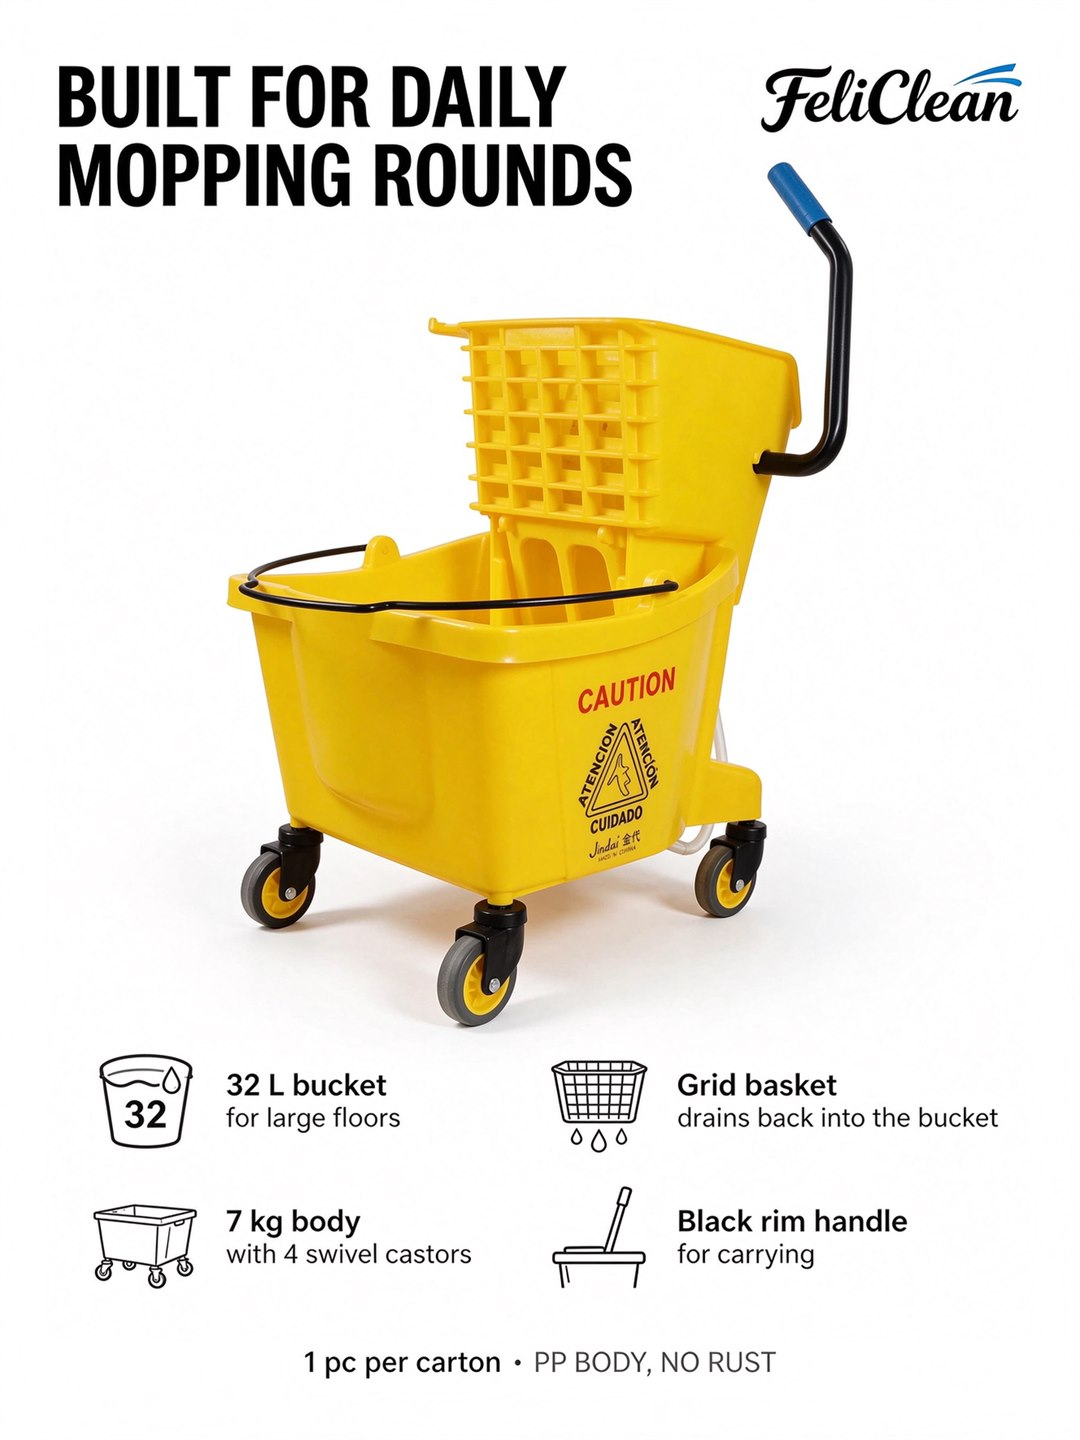
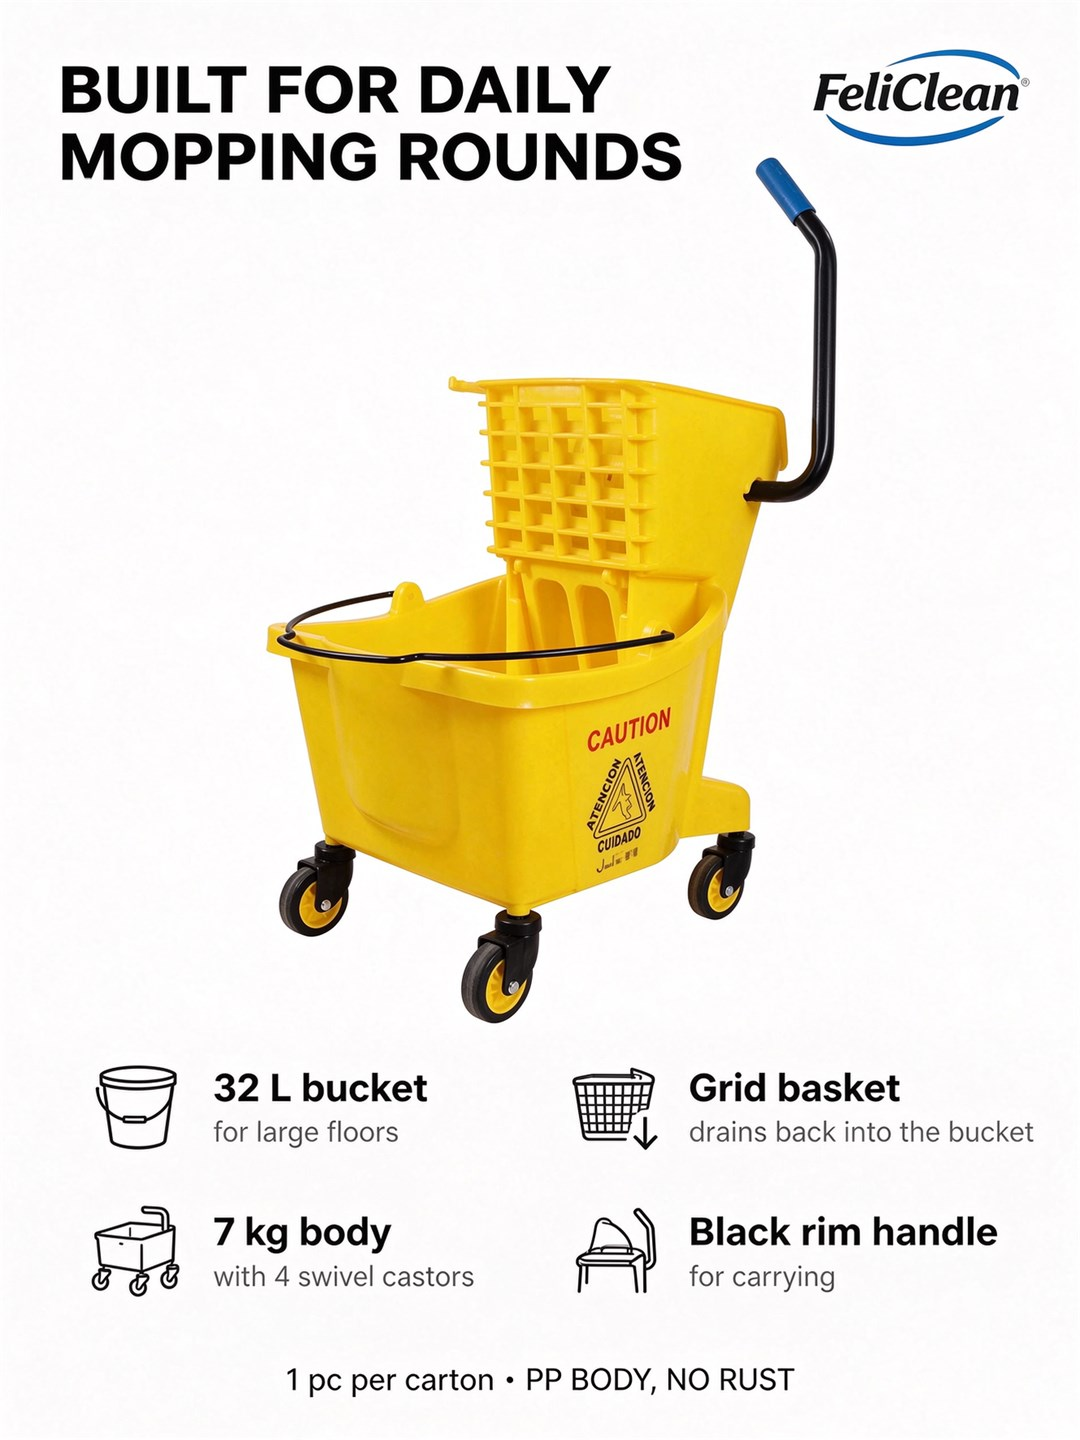
PWR-103A: correct model spec to the supplied photo - no drain hose; clean hose artefact from main image, regenerate all five posters, rewrite page copy, spec, features and JSON-LD

diff --git a/pwr-103a.html b/pwr-103a.html
@@ -4,19 +4,19 @@
 <head>
   <meta charset="utf-8">
   <meta content="width=device-width, initial-scale=1.0" name="viewport">
-  <title>32L Single Mop Wringer Trolley PWR-103A | Large-Capacity Mop Wringer Bucket with Drain Hose for Schools, Warehouses &amp; Hospitals | Feliclean</title>
-  <meta name="description" content="32L single mop wringer trolley PWR-103A with a drain hose for schools, hospitals, warehouses and large retail floors: a 32 litre bucket cuts refill trips, a PP grid wringer basket drains the wringings back into the fill, and the hose empties the bucket into a floor drain without lifting. 54 × 38 × 90 cm, 7 kg, carton 51.5 × 41.5 × 36 cm, 1 pc per carton, four colours, factory direct from Guangzhou.">
-  <meta name="keywords" content="32L single mop wringer trolley, large capacity mop wringer bucket, mop bucket with wringer and drain hose, commercial mop wringer trolley, janitorial mop bucket 32 litre, single bucket wringer trolley PWR-103A">
+  <title>32L Single Mop Wringer Trolley PWR-103A | Large Single-Bucket Mop Wringer with Clip-On Basket for Schools, Warehouses &amp; Hospitals | Feliclean</title>
+  <meta name="description" content="32L single mop wringer trolley PWR-103A for schools, hospitals, warehouses and large retail floors: one 32 litre bucket cuts refill trips, and the clip-on PP grid wringer basket squeezes the mop and drains the wringings back into the fill. 54 × 38 × 90 cm, 7 kg, carton 51.5 × 41.5 × 36 cm, 1 pc per carton, four colours, factory direct from Guangzhou.">
+  <meta name="keywords" content="32L single mop wringer trolley, large capacity mop wringer bucket, single bucket mop wringer trolley with clip-on basket, commercial mop wringer trolley, janitorial mop bucket 32 litre, PWR-103A">
   <link rel="canonical" href="https://feliclean.com/pwr-103a.html">
   <meta name="robots" content="index, follow">
 
   <meta property="og:type" content="product">
   <meta property="og:site_name" content="FeliClean">
-  <meta property="og:title" content="32L Single Mop Wringer Trolley PWR-103A | Large-Capacity Wringer Bucket with Drain Hose for Schools, Warehouses and Hospitals">
-  <meta property="og:description" content="One 32 L bucket, a PP grid wringer basket and a drain hose at the base: fewer refills on long floors, and the dirty water goes into the floor drain without lifting. 54 x 38 x 90 cm, 7 kg, 1 pc per carton, four colours.">
+  <meta property="og:title" content="32L Single Mop Wringer Trolley PWR-103A | Large Single-Bucket Mop Wringer with Clip-On Basket for Schools, Warehouses and Hospitals">
+  <meta property="og:description" content="One 32 L bucket and a clip-on PP grid wringer basket: fewer refills on long floors, and the wringings drain back into the fill instead of across the tiles. 54 x 38 x 90 cm, 7 kg, 1 pc per carton, four colours.">
   <meta property="og:url" content="https://feliclean.com/pwr-103a.html">
-  <meta property="og:image" content="https://feliclean.com/assets/img/products/pwr-103a/pwr-103a-32l-single-mop-wringer-trolley-with-drain-hose-white-background.jpg">
-  <meta property="og:image:alt" content="32L single mop wringer trolley PWR-103A with drain hose, PP wringer basket and four swivel castors, white background">
+  <meta property="og:image" content="https://feliclean.com/assets/img/products/pwr-103a/pwr-103a-32l-single-mop-wringer-trolley-white-background.jpg">
+  <meta property="og:image:alt" content="32L single mop wringer trolley PWR-103A with clip-on PP wringer basket and four swivel castors, white background">
   <meta name="twitter:card" content="summary_large_image">
 
   <link href="assets/img/favicon.png" rel="icon">
@@ -41,10 +41,10 @@
   "name": "32L Single Mop Wringer Trolley PWR-103A",
   "sku": "PWR-103A",
   "mpn": "PWR-103A",
-  "category": "Large capacity single bucket mop wringer trolley with drain hose for schools, hospitals, warehouses and large retail floors",
-  "description": "32 litre single mop wringer trolley (PWR-103A) with a PP grid wringer basket that drains the wringings back into the bucket, a drain hose with cap at the base for emptying without lifting, a carry handle on the rim and four swivel castors. Overall size 54 × 38 × 90 cm, net weight 7 kg, carton 51.5 × 41.5 × 36 cm, 1 pc per carton, available in yellow, green, blue and red.",
+  "category": "Large capacity single bucket mop wringer trolley with clip-on PP basket for schools, hospitals, warehouses and large retail floors",
+  "description": "32 litre single mop wringer trolley (PWR-103A) with a clip-on PP grid wringer basket that squeezes the mop and drains the wringings back into the bucket, a carry handle on the rim and four swivel castors. Overall size 54 × 38 × 90 cm, net weight 7 kg, carton 51.5 × 41.5 × 36 cm, 1 pc per carton, available in yellow, green, blue and red.",
   "image": [
-    "https://feliclean.com/assets/img/products/pwr-103a/pwr-103a-32l-single-mop-wringer-trolley-with-drain-hose-white-background.jpg",
+    "https://feliclean.com/assets/img/products/pwr-103a/pwr-103a-32l-single-mop-wringer-trolley-white-background.jpg",
     "https://feliclean.com/assets/img/products/pwr-103a/pwr-103a-poster-1-32l-single-mop-wringer-trolley.jpg",
     "https://feliclean.com/assets/img/products/pwr-103a/pwr-103a-poster-2-dimensions-and-carton.jpg"
   ],
@@ -85,8 +85,8 @@
     },
     {
       "@type": "PropertyValue",
-      "name": "Drain",
-      "value": "Drain hose with cap at the base"
+      "name": "Wringer attachment",
+      "value": "Clip-on PP basket hooked over the bucket rim"
     },
     {
       "@type": "PropertyValue",
@@ -184,15 +184,15 @@
           <div class="pdp-left">
           <div class="pdp-gallery">
             <div class="pdp-thumbs pdp-thumbs--many">
-              <button class="pdp-thumb active" data-full="assets/img/products/pwr-103a/pwr-103a-32l-single-mop-wringer-trolley-with-drain-hose-white-background.jpg" type="button"><img src="assets/img/products/pwr-103a/pwr-103a-32l-single-mop-wringer-trolley-with-drain-hose-white-background.jpg" alt="32L single mop wringer trolley PWR-103A with drain hose, PP wringer basket and four swivel castors for schools and hospitals, white background"></button>
-              <button class="pdp-thumb" data-full="assets/img/products/pwr-103a/pwr-103a-poster-1-32l-single-mop-wringer-trolley.jpg" type="button"><img src="assets/img/products/pwr-103a/pwr-103a-poster-1-32l-single-mop-wringer-trolley.jpg" alt="32L single mop wringer trolley PWR-103A poster with 32 L capacity and 54 x 38 x 90 cm size for large floor cleaning"></button>
+              <button class="pdp-thumb active" data-full="assets/img/products/pwr-103a/pwr-103a-32l-single-mop-wringer-trolley-white-background.jpg" type="button"><img src="assets/img/products/pwr-103a/pwr-103a-32l-single-mop-wringer-trolley-white-background.jpg" alt="32L single mop wringer trolley PWR-103A with clip-on PP wringer basket and four swivel castors for schools and hospitals, white background"></button>
+              <button class="pdp-thumb" data-full="assets/img/products/pwr-103a/pwr-103a-poster-1-32l-single-mop-wringer-trolley.jpg" type="button"><img src="assets/img/products/pwr-103a/pwr-103a-poster-1-32l-single-mop-wringer-trolley.jpg" alt="32L single mop wringer trolley PWR-103A poster with 32 L capacity, PP wringer basket and 4 swivel castors for large floor cleaning"></button>
               <button class="pdp-thumb" data-full="assets/img/products/pwr-103a/pwr-103a-poster-2-dimensions-and-carton.jpg" type="button"><img src="assets/img/products/pwr-103a/pwr-103a-poster-2-dimensions-and-carton.jpg" alt="PWR-103A mop wringer trolley dimensions poster showing 54 x 38 x 90 cm overall size, 7 kg net weight and 51.5 x 41.5 x 36 cm carton for freight quotes"></button>
-              <button class="pdp-thumb" data-full="assets/img/products/pwr-103a/pwr-103a-poster-3-drain-hose.jpg" type="button"><img src="assets/img/products/pwr-103a/pwr-103a-poster-3-drain-hose.jpg" alt="PWR-103A 32 litre mop wringer trolley poster showing the drain hose emptying dirty water into a floor drain without lifting, for hospitals and warehouses"></button>
+              <button class="pdp-thumb" data-full="assets/img/products/pwr-103a/pwr-103a-poster-3-clip-on-wringer-basket.jpg" type="button"><img src="assets/img/products/pwr-103a/pwr-103a-poster-3-clip-on-wringer-basket.jpg" alt="PWR-103A 32 litre mop wringer trolley poster showing the clip-on wringer basket hooked over the bucket rim with grid drainage, for schools and warehouses"></button>
               <button class="pdp-thumb" data-full="assets/img/products/pwr-103a/pwr-103a-poster-4-built-for-daily-mopping.jpg" type="button"><img src="assets/img/products/pwr-103a/pwr-103a-poster-4-built-for-daily-mopping.jpg" alt="PWR-103A mop wringer bucket poster with rust-free PP body, grid wringer basket, 7 kg frame and four swivel castors built for daily mopping rounds"></button>
               <button class="pdp-thumb" data-full="assets/img/products/pwr-103a/pwr-103a-poster-5-factory-direct-guangzhou.jpg" type="button"><img src="assets/img/products/pwr-103a/pwr-103a-poster-5-factory-direct-guangzhou.jpg" alt="PWR-103A mop wringer trolley factory direct poster from Guangzhou with four colours, sample orders, OEM logo and EXW FOB CIF terms"></button>
             </div>
             <div class="pdp-main pdp-main--cap" id="pdpMain">
-              <img src="assets/img/products/pwr-103a/pwr-103a-32l-single-mop-wringer-trolley-with-drain-hose-white-background.jpg" alt="FeliClean PWR-103A 32L single mop wringer trolley product main image, PP wringer basket and drain hose">
+              <img src="assets/img/products/pwr-103a/pwr-103a-32l-single-mop-wringer-trolley-white-background.jpg" alt="FeliClean PWR-103A 32L single mop wringer trolley product main image, clip-on PP wringer basket and four swivel castors">
             </div>
           </div>
 
@@ -201,14 +201,14 @@
               <table class="sd-spec-table">
                 <tbody>
                   <tr><th>Model</th><td>PWR-103A</td></tr>
-                  <tr><th>Product type</th><td>Single bucket mop wringer trolley with drain hose</td></tr>
+                  <tr><th>Product type</th><td>Single bucket mop wringer trolley with clip-on wringer basket</td></tr>
                   <tr><th>Capacity</th><td>32 L</td></tr>
                   <tr><th>Overall size</th><td>54 × 38 × 90 cm (L × W × H, handle included)</td></tr>
                   <tr><th>Net weight</th><td>7 kg</td></tr>
                   <tr><th>Carton dimension</th><td>51.5 × 41.5 × 36 cm</td></tr>
                   <tr><th>Body material</th><td>Injection-moulded PP bucket and PP wringer basket</td></tr>
-                  <tr><th>Wringer</th><td>Rear PP grid wringer basket, pressed with the mop</td></tr>
-                  <tr><th>Drain hose</td><td>Hose with cap, mounted at the base</td></tr>
+                  <tr><th>Wringer</th><td>Clip-on PP grid wringer basket, hooked over the bucket rim</td></tr>
+                  <tr><th>Drain</th><td>None — this model is the plain bucket version, emptied by tipping</td></tr>
                   <tr><th>Wheels</th><td>4 swivel castors with yellow rims</td></tr>
                   <tr><th>Colours</th><td>Yellow (standard), green, blue, red</td></tr>
                   <tr><th>Package</th><td>1 pc / ctn</td></tr>
@@ -218,16 +218,16 @@
 
             <div class="pdp-desc">
               <p>The PWR-103A is the 32 litre single bucket in our wringer trolley range — the model for long floors where a 24 litre fill runs out before the job does. Corridors, school halls, hospital wards, warehouse aisles, supermarket walkways and factory floors all mean the same thing in practice: fewer trips back to the tap, and a trolley that still pushes easily on four castors while it is heavy with water.</p>
-              <p>Wringing is done over the bucket: the mop goes onto the PP grid basket at the rear, pressure squeezes the water out, and the grid drains it straight back into the fill instead of across the tiles. The mop leaves damp rather than dripping, so a floor takes one pass and the water you are mopping with goes further.</p>
-              <p>At the base, a drain hose with a screw cap takes the dirty water out without tipping the bucket over. Pull the trolley next to a floor drain or a toilet, open the cap and the water runs out at floor level — no lifting 32 litres of dirty water, no splash onto the washroom floor, and no second bucket to carry. The cap stays tight while you mop and while the trolley travels on a van.</p>
+              <p>Wringing is done over the bucket: the basket is a clip-on unit whose hook seats over the bucket rim, so it stays put while you press. The mop goes onto the PP grid, pressure squeezes the water out, and the grid drains it straight back into the fill instead of across the tiles. The mop leaves damp rather than dripping, so a floor takes one pass and the water you are mopping with goes further. When the basket needs rinsing, the same hook lets you lift it off with one hand.</p>
+              <p>This model is the plain bucket version: there is no drain hose on PWR-103A, so the bucket is emptied by tipping it over a floor drain or a toilet — the basket comes off first, and 32 litres then pours out in a straight stream with no hose to kink or clog. If emptying by hose matters more to you than capacity, the <a href="pwr-102b.html">24 L single mop wringer trolley PWR-102B</a> is the hose version of the range.</p>
               <p>Everything that touches water is PP: bucket, wringer basket and the rim handle used when the wheels cannot go. The frame weighs about 7 kg empty, light enough to lift into a van or up a service stair, and the four swivel castors turn on the spot in a doorway or between shelving. Overall 54 × 38 × 90 cm with the handle; one piece packs into a 51.5 × 41.5 × 36 cm carton, which keeps sample freight and courier costs predictable. Yellow is stocked; green, blue and red are moulded to order so sites can colour-code by floor or by department.</p>
-              <p>Supply side: trolleys ship from our Guangzhou works, so trial quantities and single samples leave quickly, and mixed containers can be built with mops, dustbins, caution boards and service carts from the same catalogue. We quote EXW, FOB or CIF, print your logo for OEM and ODM orders, and keep spare castors, wringer baskets and drain hoses for the life of the trolley. If a smaller bucket suits your rooms better, compare the <a href="pwr-102b.html">24 L single mop wringer trolley with drain hose PWR-102B</a> and the <a href="pwr-102a.html">24 L single mop wringer trolley PWR-102A</a>; for clean and dirty water kept apart, the <a href="pwr-101.html">34 L double mop wringer trolley PWR-101</a> is the two-chamber version. Tell us the site, the quantity and the destination port, and we reply within one working day.</p>
+              <p>Supply side: trolleys ship from our Guangzhou works, so trial quantities and single samples leave quickly, and mixed containers can be built with mops, dustbins, caution boards and service carts from the same catalogue. We quote EXW, FOB or CIF, print your logo for OEM and ODM orders, and keep spare castors, wringer baskets and rim handles for the life of the trolley. If a smaller bucket suits your rooms better, compare the <a href="pwr-102b.html">24 L single mop wringer trolley with drain hose PWR-102B</a> and the <a href="pwr-102a.html">24 L single mop wringer trolley PWR-102A</a>; for clean and dirty water kept apart, the <a href="pwr-101.html">34 L double mop wringer trolley PWR-101</a> is the two-chamber version. Tell us the site, the quantity and the destination port, and we reply within one working day.</p>
             </div>
           </div>
 
           <div class="pdp-info">
             <h1 class="pdp-title">32L Single Mop Wringer Trolley <span style="white-space:nowrap">PWR-103A</span></h1>
-            <p class="pdp-lead">A 32 litre single bucket with a PP wringer basket and a drain hose at the base, for schools, hospitals, warehouses and large retail floors: fewer refills on long runs, and the dirty water empties into a floor drain without lifting.</p>
+            <p class="pdp-lead">A 32 litre single bucket with a clip-on PP wringer basket, for schools, hospitals, warehouses and large retail floors: fewer refills on long runs, and the basket hooks over the rim so it stays put while you press.</p>
 
             <div class="pdp-meta">
               <div class="pdp-meta-row"><span class="k">Model</span><span class="v">PWR-103A</span></div>
@@ -240,7 +240,7 @@
             <div class="sd-features">
               <div class="sd-feature"><i class="bi bi-check-circle-fill"></i>32 L fill: about a third more water than a 24 L bucket, so long corridors and warehouse aisles need fewer trips back to the tap.</div>
               <div class="sd-feature"><i class="bi bi-check-circle-fill"></i>PP grid wringer basket over the bucket: pressure squeezes the mop and the grid drains the water back into the fill, not onto the floor.</div>
-              <div class="sd-feature"><i class="bi bi-check-circle-fill"></i>Drain hose with screw cap at the base: empty into a floor drain at floor level, no lifting 32 litres and no second bucket.</div>
+              <div class="sd-feature"><i class="bi bi-check-circle-fill"></i>Clip-on wringer basket with a hook over the rim: it locks in place while you press and lifts off with one hand when it needs rinsing.</div>
               <div class="sd-feature"><i class="bi bi-check-circle-fill"></i>About 7 kg empty: light enough for a service stair or a van, and four swivel castors with yellow rims turn on the spot.</div>
               <div class="sd-feature"><i class="bi bi-check-circle-fill"></i>Injection-moulded PP body and basket: no rust, resistant to bathroom, kitchen and industrial detergents.</div>
               <div class="sd-feature"><i class="bi bi-check-circle-fill"></i>54 × 38 × 90 cm, 51.5 × 41.5 × 36 cm carton, 1 pc per carton; yellow in stock, green / blue / red on request, samples and mixed containers from Guangzhou.</div>

diff --git a/assets/js/products-data.js b/assets/js/products-data.js
@@ -689,8 +689,8 @@ window.FELI_PRODUCTS = [
   },
   {
     href: "pwr-103a.html",
-    img: "assets/img/products/pwr-103a/pwr-103a-32l-single-mop-wringer-trolley-with-drain-hose-white-background.jpg",
-    alt: "32L single mop wringer trolley PWR-103A with drain hose, PP wringer basket and four swivel castors for schools, hospitals and warehouses, white background",
+    img: "assets/img/products/pwr-103a/pwr-103a-32l-single-mop-wringer-trolley-white-background.jpg",
+    alt: "32L single mop wringer trolley PWR-103A with clip-on PP wringer basket and four swivel castors for schools, hospitals and warehouses, white background",
     model: "PWR-103A",
     name: "32L Single Mop Wringer Trolley",
     group: "pl",
